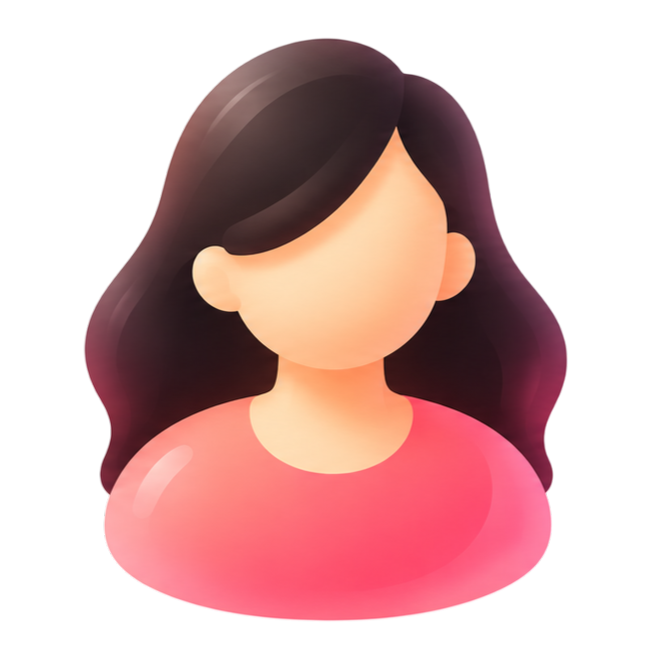
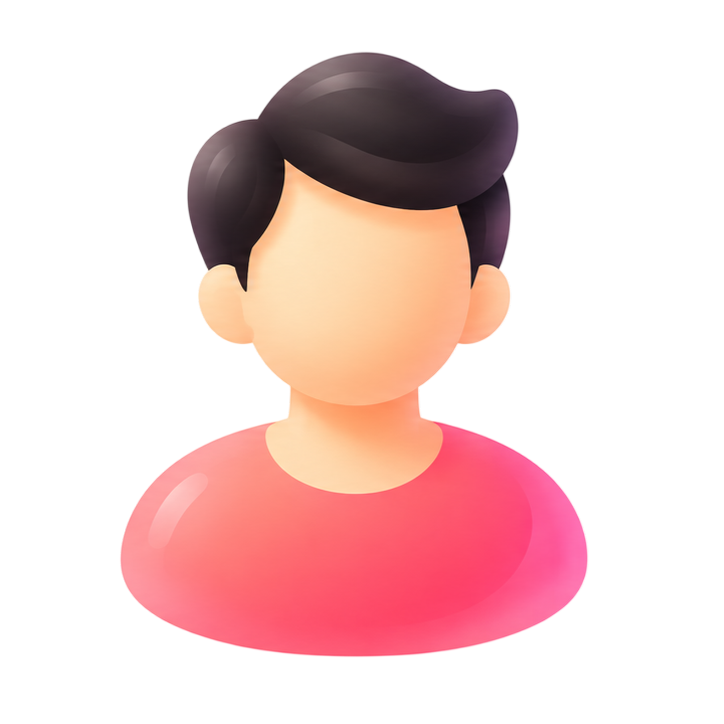
feat: add gender selection to edit profile and remove redundant app bar from health profile

Changed region(s): [[0.1194, 0.0597, 0.8657, 0.9254]]

diff --git a/lib/features/settings/edit_profile_page.dart b/lib/features/settings/edit_profile_page.dart
@@ -32,6 +32,8 @@ class _EditProfilePageState extends State<EditProfilePage> {
 
   // Selected State
   DateTime? _dob;
+  // 'male' or 'female'; also picks the Mom / Dad avatar.
+  String _gender = 'female';
   String _pregnancyStatus = notPregnantStatus;
   DateTime? _lmpDate;
   DateTime? _eddDate;
@@ -67,6 +69,7 @@ class _EditProfilePageState extends State<EditProfilePage> {
     );
 
     _dob = session.dob;
+    _gender = session.gender.trim().toLowerCase() == 'male' ? 'male' : 'female';
     _pregnancyStatus = _normalizeStatus(session.pregnancyStatus);
     _lmpDate = session.lmpDate;
     _eddDate = session.eddDate;
@@ -157,6 +160,7 @@ class _EditProfilePageState extends State<EditProfilePage> {
       'name': _nameController.text.trim(),
       'email': orNull(_emailController.text),
       'dob': SyncCodec.isoDate(_dob),
+      'gender': _gender,
       'bio': orNull(_bioController.text),
       'city': orNull(_cityController.text),
       'pincode': orNull(_pincodeController.text),
@@ -263,6 +267,56 @@ class _EditProfilePageState extends State<EditProfilePage> {
                             hint: 'Mobile number',
                             icon: Icons.phone_outlined,
                             keyboardType: TextInputType.phone,
+                          ),
+                          const SizedBox(height: 16),
+                          Text(
+                            'Gender',
+                            style: GoogleFonts.poppins(
+                              fontSize: 14,
+                              fontWeight: FontWeight.w600,
+                              color: p.textPrimary,
+                            ),
+                          ),
+                          const SizedBox(height: 10),
+                          Wrap(
+                            spacing: 8,
+                            runSpacing: 8,
+                            children: [
+                              for (final option in const [
+                                ('female', 'Female'),
+                                ('male', 'Male'),
+                              ])
+                                ChoiceChip(
+                                  avatar: QuickActionImage(
+                                    QuickActionImages.person(gender: option.$1),
+                                    size: 22,
+                                  ),
+                                  label: Text(
+                                    option.$2,
+                                    style: GoogleFonts.poppins(
+                                      fontSize: 13,
+                                      fontWeight: FontWeight.w600,
+                                    ),
+                                  ),
+                                  selected: _gender == option.$1,
+                                  showCheckmark: false,
+                                  selectedColor: const Color(0xFFFF4E6A),
+                                  labelStyle: TextStyle(
+                                    color: _gender == option.$1
+                                        ? Colors.white
+                                        : p.textSecondary,
+                                  ),
+                                  backgroundColor: p.pick(
+                                    const Color(0xFFF3F4F6),
+                                    p.inputFill,
+                                  ),
+                                  onSelected: (sel) {
+                                    if (sel) {
+                                      setState(() => _gender = option.$1);
+                                    }
+                                  },
+                                ),
+                            ],
                           ),
                           const SizedBox(height: 16),
                           _buildDateTile(
@@ -678,9 +732,7 @@ class _EditProfilePageState extends State<EditProfilePage> {
                                 ),
                               )
                             : Image.asset(
-                                QuickActionImages.person(
-                                  gender: MainController.instance.gender,
-                                ),
+                                QuickActionImages.person(gender: _gender),
                                 fit: BoxFit.cover,
                                 errorBuilder: (_, __, ___) => const Icon(
                                   Icons.face_3_rounded,

diff --git a/lib/features/my_health/health_profile_page.dart b/lib/features/my_health/health_profile_page.dart
@@ -210,24 +210,8 @@ class _HealthProfilePageState extends State<HealthProfilePage> {
 
     return Scaffold(
       backgroundColor: _p.scaffoldSoft,
-      appBar: AppBar(
-        backgroundColor: _p.scaffoldSoft,
-        elevation: 0,
-        scrolledUnderElevation: 0,
-        centerTitle: true,
-        leading: IconButton(
-          icon: Icon(Icons.arrow_back_ios_new_rounded, color: _p.pick(const Color(0xFF2D3142), _p.textPrimary), size: 20),
-          onPressed: () => Navigator.of(context).maybePop(),
-        ),
-        title: Text(
-          'Health Profile',
-          style: TextStyle(
-            fontSize: 18,
-            fontWeight: FontWeight.w800,
-            color: _textStrong,
-          ),
-        ),
-      ),
+      // No app bar of its own: it is the Profile tab of My Health, whose
+      // app bar already says "My Profile".
       body: SingleChildScrollView(
         padding: const EdgeInsets.symmetric(horizontal: 20, vertical: 12),
         physics: const BouncingScrollPhysics(),
